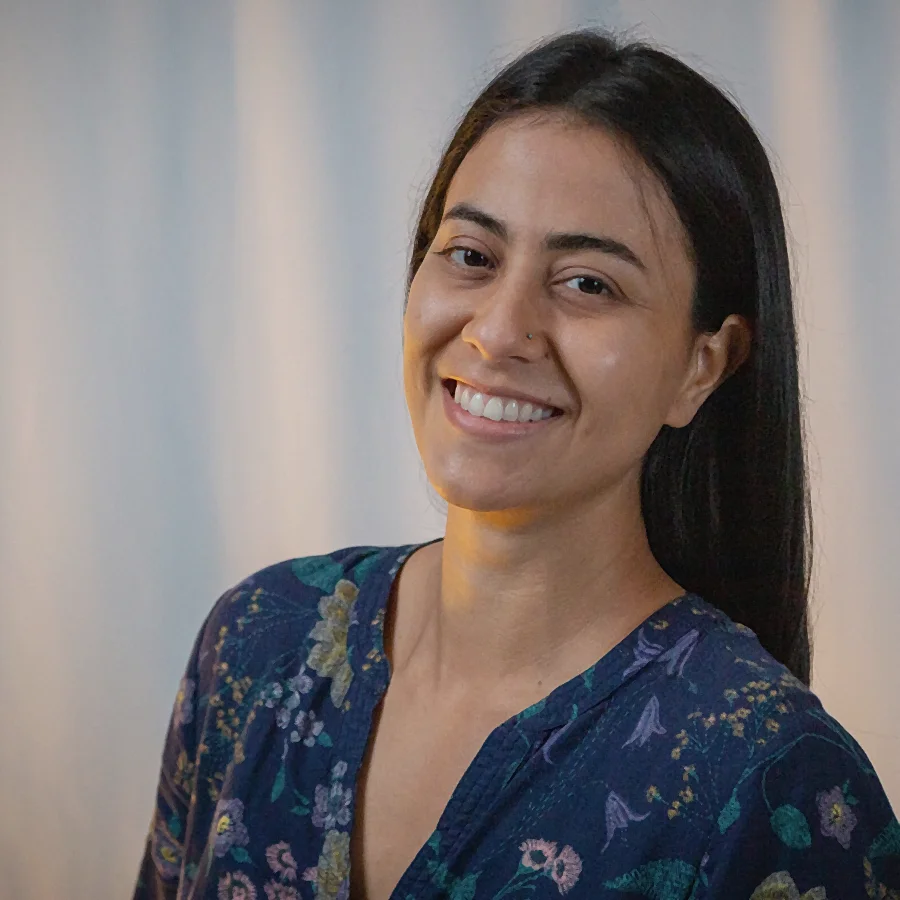
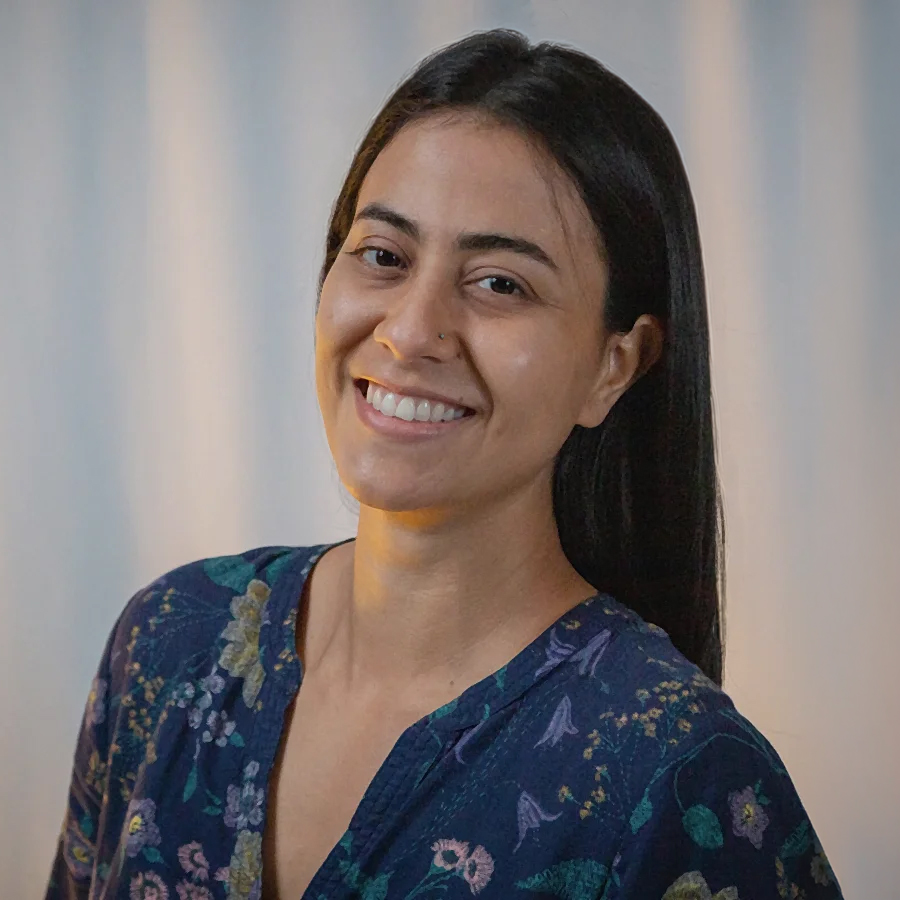
Update Edith's bio photo and center framing
New photo, reset object-position to center (old photo had custom
offset and zoom that no longer applies).

diff --git a/client/src/pages/photographers.tsx b/client/src/pages/photographers.tsx
@@ -209,7 +209,7 @@ export default function PhotographersPage() {
                   <img
                     src={edithPhoto}
                     alt="Edith Caballero"
-                    className="w-full h-full object-cover object-[center_30%] scale-[1.15] -translate-x-[5%]"
+                    className="w-full h-full object-cover object-center"
                     loading="lazy"
                     decoding="async"
                     data-testid="img-photographer-page-1"
